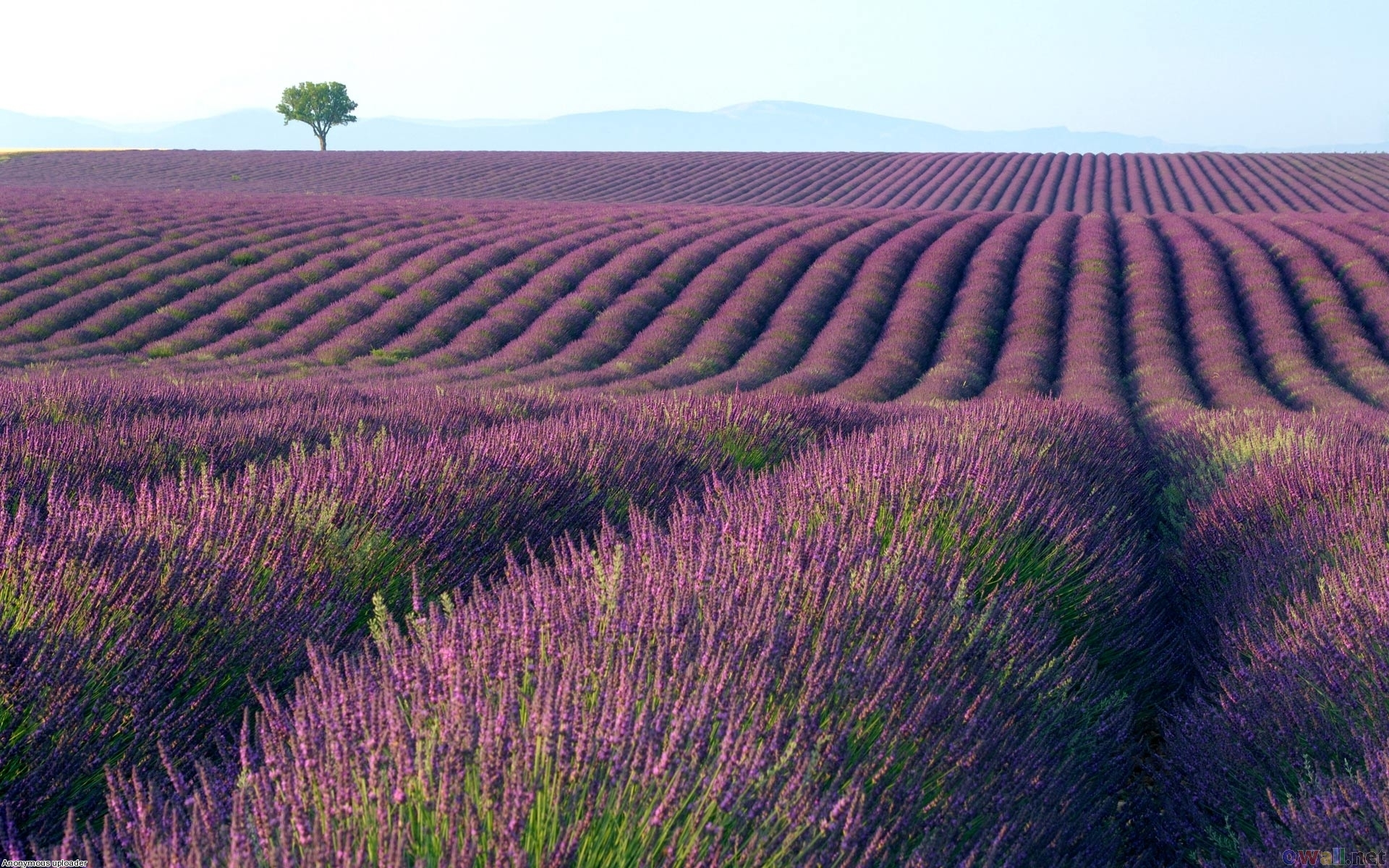
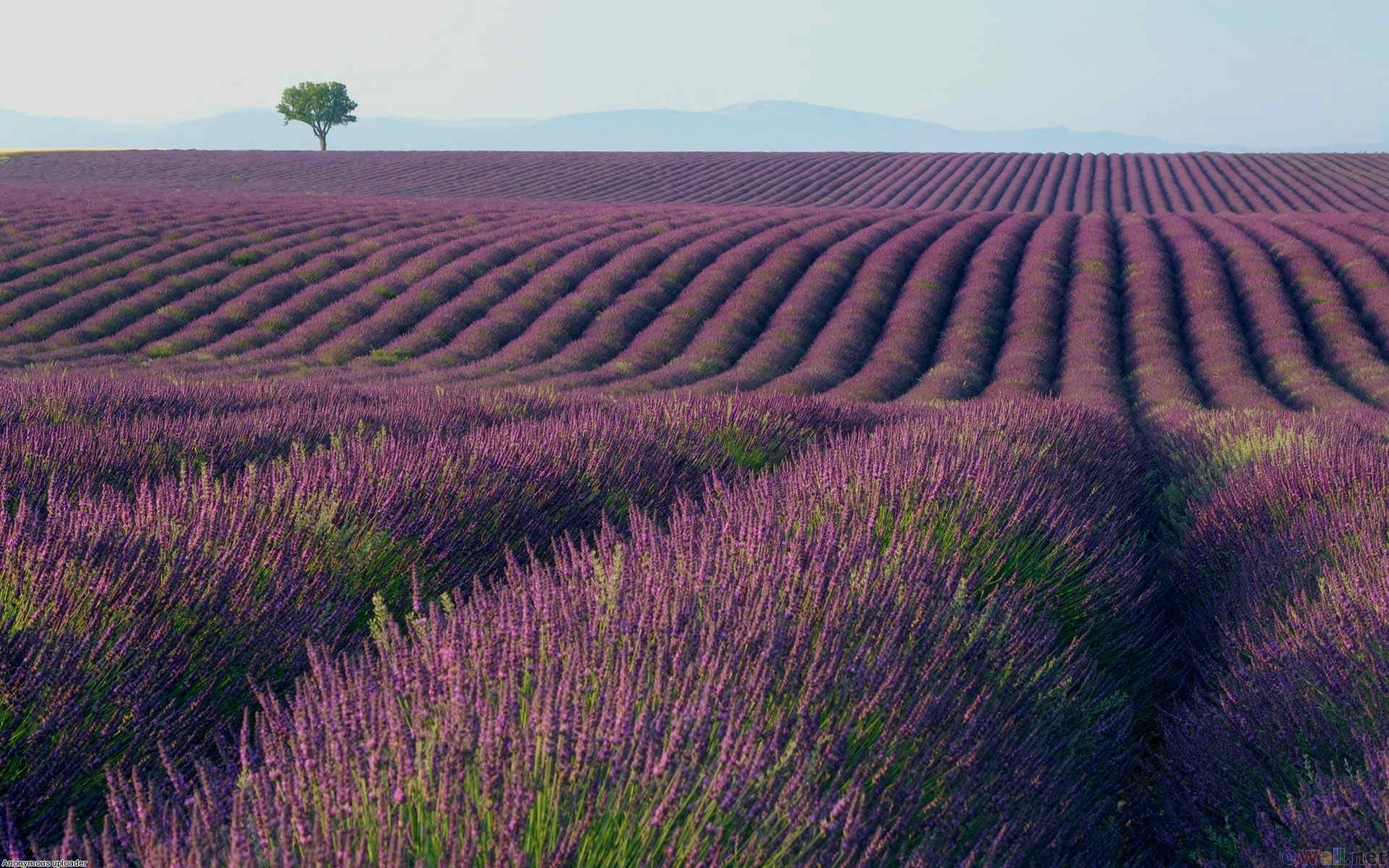
fixed scroll reveal and resize lavanda.jpg

diff --git a/public/javascripts/ui.js b/public/javascripts/ui.js
@@ -180,7 +180,7 @@ function init() {
 var config = {
   mobile: true,
   //reset: true,
-  vFactor: 0.30
+  vFactor: 0.10
 }
 
 window.sr = new scrollReveal(config);
